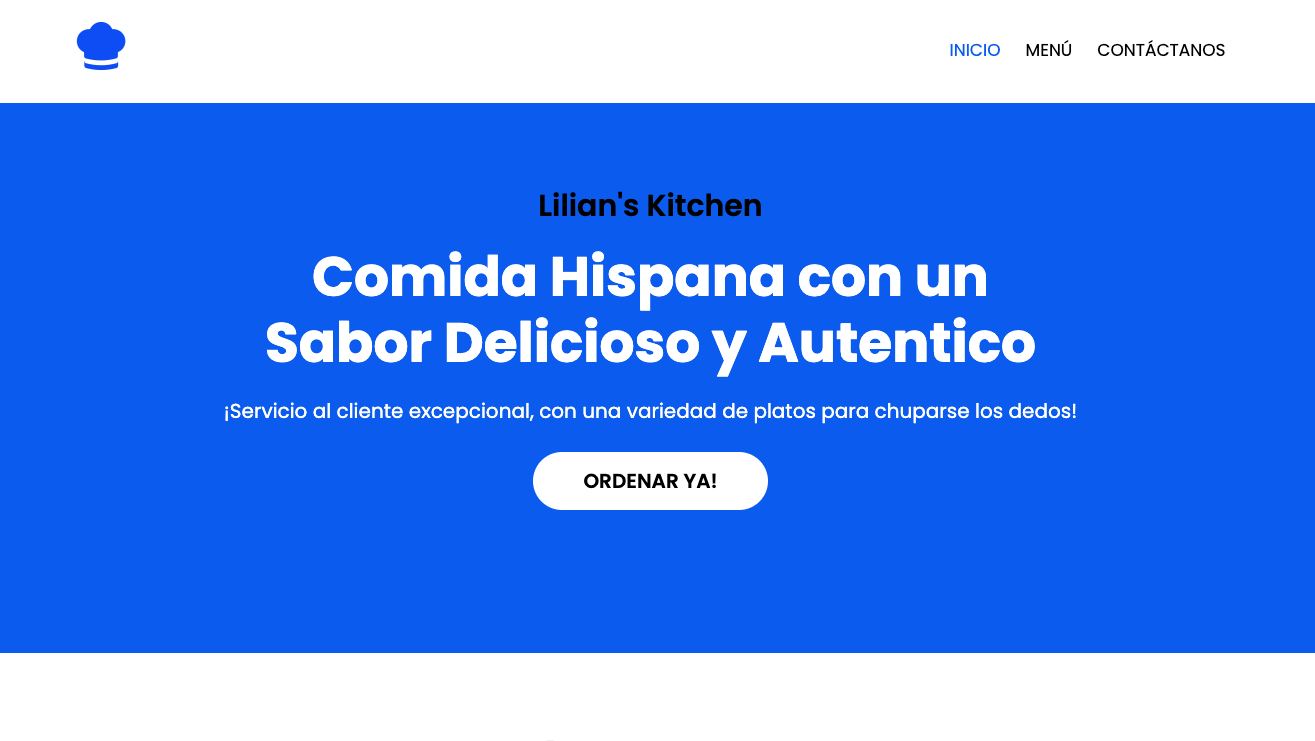
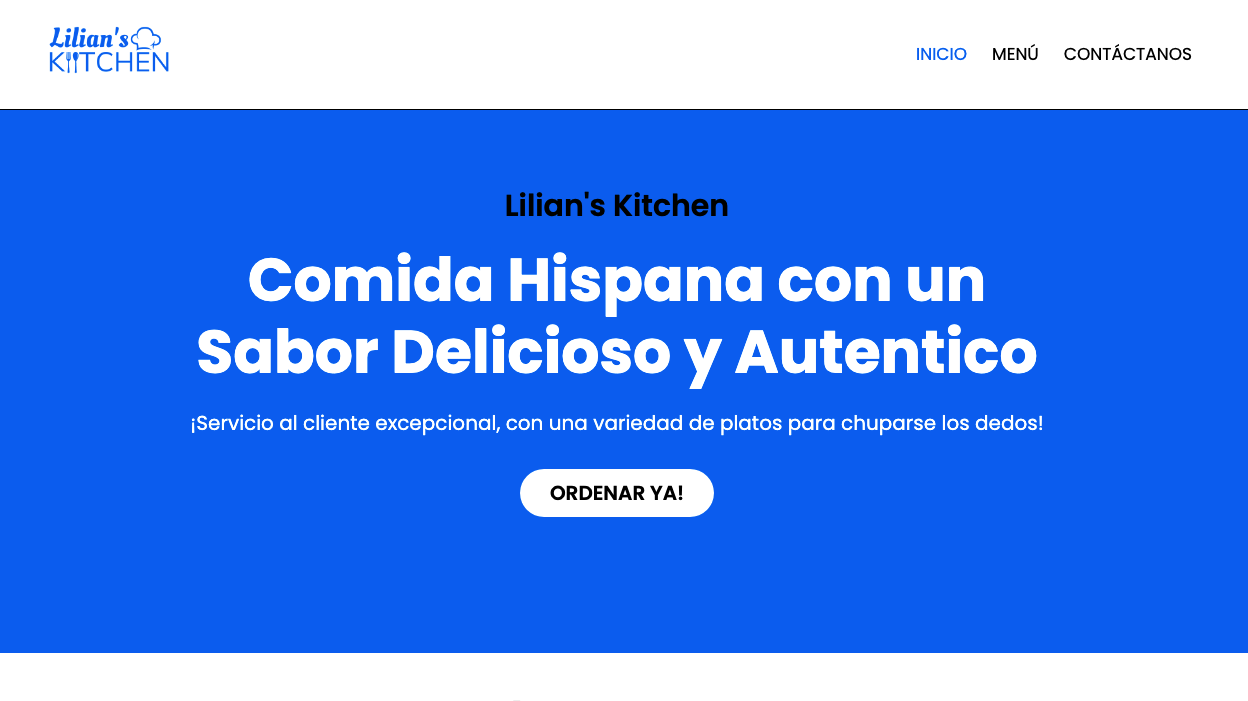
Made Nav be Fixed

diff --git a/index.html b/index.html
@@ -57,7 +57,7 @@
           <p>
             Focus on running your business while I focus on growing it.
           </p>
-          <a href="#contact" class="btn-link">Contact Me</a>
+          <a href="#contact" class="btn-link" id="skills">Contact Me</a>
         </div>
       </div>
     </header>
@@ -65,7 +65,7 @@
     <!-- Main Content -->
     <main>
       <!-- Skills Section -->
-      <section id="skills">
+      <section>
         <div class="container">
           <div class="skills">
             <div>
@@ -84,14 +84,14 @@
               <h3>TypeScript</h3>
             </div>
             <div>
-              <h3>Bootstrap</h3>
+              <h3 id="projects">Bootstrap</h3>
             </div>
           </div>
         </div>
       </section>
 
       <!-- Projects Section -->
-      <section id="projects">
+      <section>
         <div class="container">
           <div class="section-title">
             <h2>Projects</h2>
@@ -209,12 +209,12 @@
           <img src="images/allisbelle.png" alt="">
           <img src="images/hippogallery.png" alt="">
           <img src="images/coffeephile.png" alt="">
-          <img src="images/lilian.png" alt="">
+          <img src="images/lilian.png" alt="" id="testimonials">
         </div>
       </section>
 
       <!-- Testimonial Section -->
-      <section id="testimonials">
+      <section class="testimonials-section">
         <div class="container">
           <h2>Testimonials</h2>
           <div class="testimonials">

diff --git a/css/style.css b/css/style.css
@@ -19,6 +19,8 @@
 body {
   font-family: 'Manrope', sans-serif;
   background-color: var(--black);
+  position: relative;
+  padding-top: 110px;
 }
 
 h1 {
@@ -96,13 +98,18 @@ button.btn-link:hover {
 /* Navbar */
 nav {
   width: 100%;
+  position: fixed;
+  background-color: var(--black);
+  z-index: 10;
+  top: 0px;
+  border-bottom: 2px solid var(--black-light);
 }
 
 nav .container {
   display: flex;
   align-items: center;
   justify-content: space-between;
-  margin: 30px auto;
+  height: 100px;
 }
 
 .btn-menu {
@@ -151,7 +158,7 @@ header .container {
   display: flex;
   flex-direction: row-reverse;
   gap: 20px;
-  margin: 20px auto 40px auto;
+  margin: 40px auto 40px auto;
   position: relative;
 }
 
@@ -276,7 +283,7 @@ header p {
 }
 
 /* Testimonial Section */
-#testimonials h2 {
+.testimonials-section h2 {
   margin-bottom: 20px;
 }
 
@@ -506,13 +513,12 @@ form button {
   }
 
   nav .container {
-    margin: 25px auto;
     position: relative;
   }
 
   nav ul {
     position: absolute;
-    top: 60px;
+    top: 105px;
     translate: -50% 0;
     left: 50%;
     background-color: var(--black);
